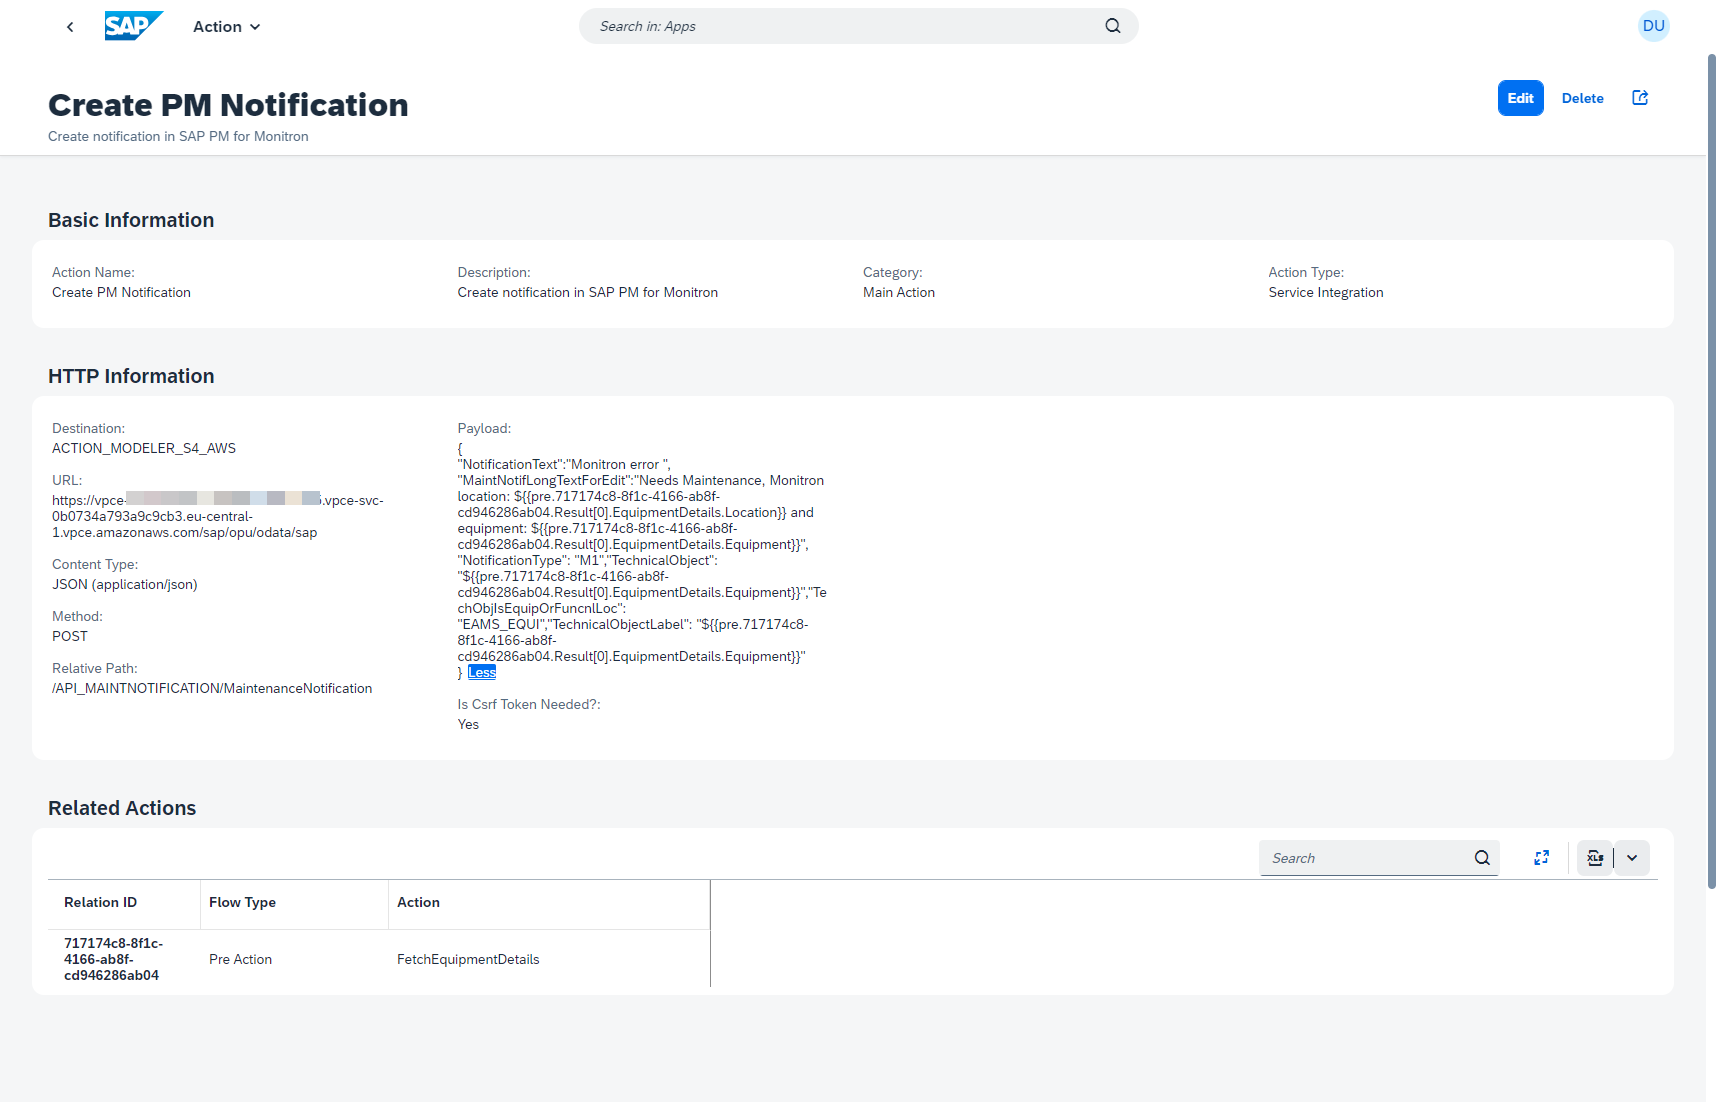
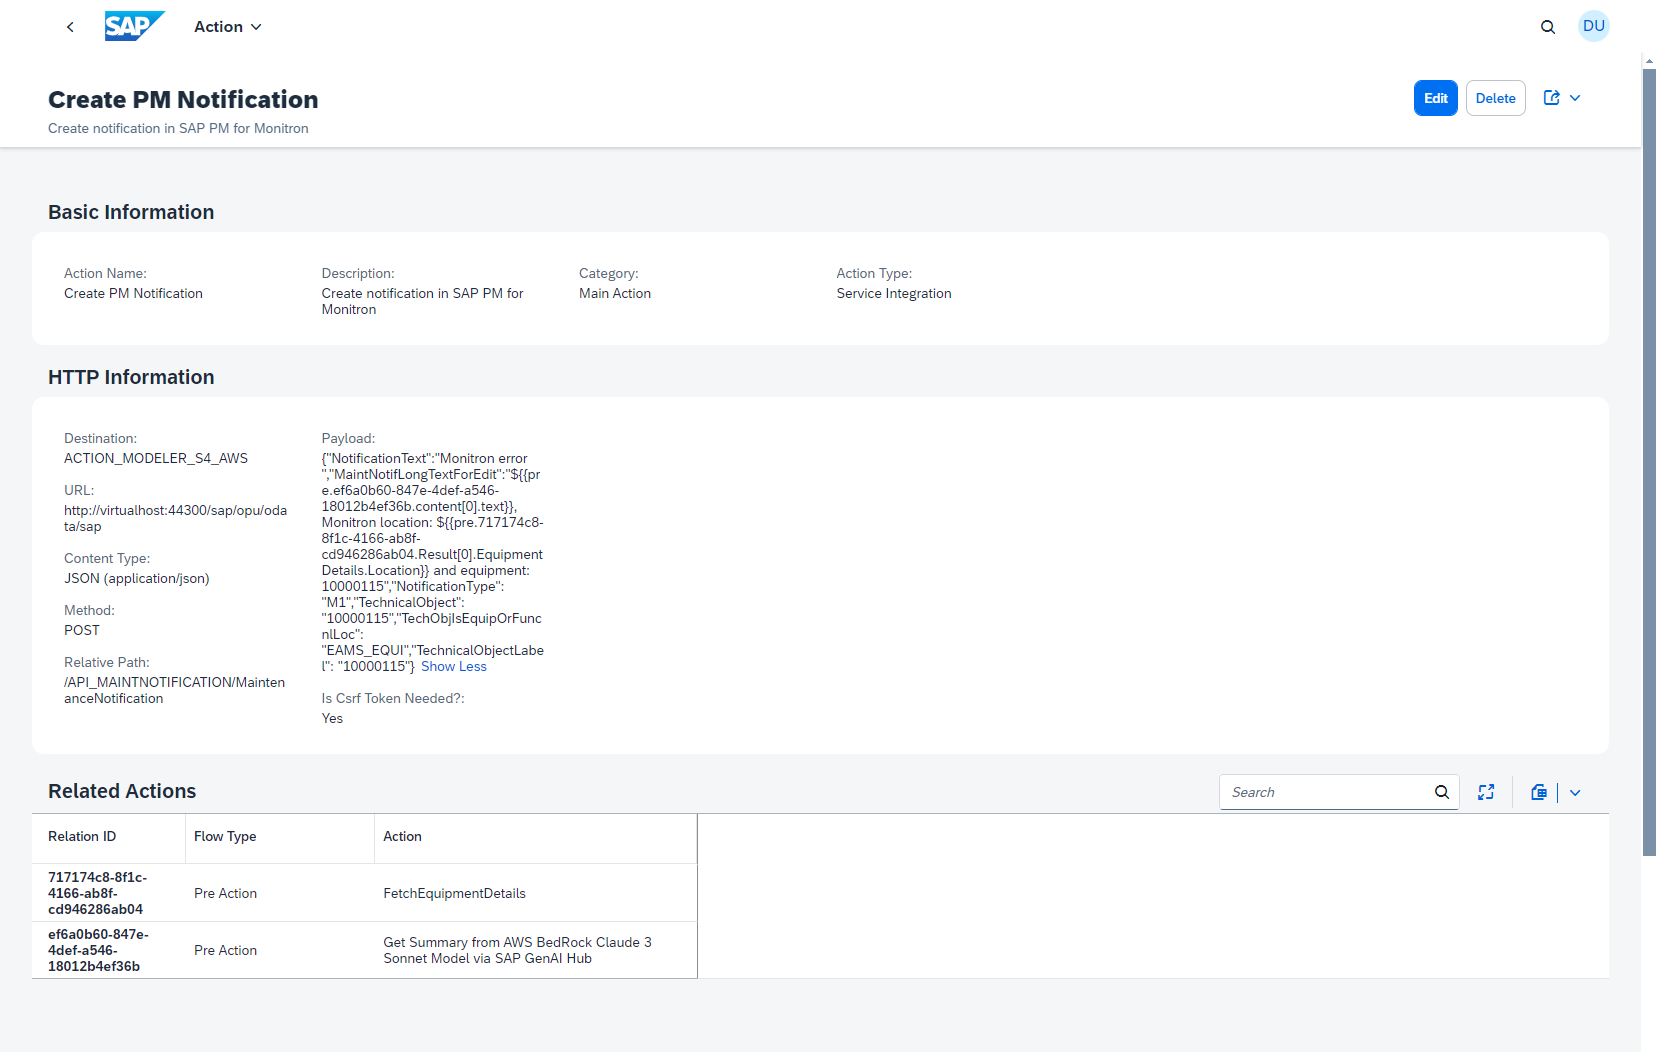
Steps for creating the GetSummary action

diff --git a/documentation/Step7-Configure-BusinessActions/README.md b/documentation/Step7-Configure-BusinessActions/README.md
@@ -123,28 +123,34 @@ In this section, you will define business action in the action-management extens
 
 7. Create a new destination with the name **AWS_BEDROCK_MODEL** and enter the following configuration values. This is used for calling the deployed generative model via SAP GenAI Hub.
 
-a. Navigate to your **SAP BTP Subaccount**, **Services -> Instances and Subscriptions** , search for the AI core instance that you have created, and under the **Service Keys**, Click on the menu as shown to see the details of the key.
+    **a.** Navigate to your **SAP BTP Subaccount**, **Services -> Instances and Subscriptions** , search for the AI core instance that you have created, and under the **Service Keys**, Click on the menu as shown to see the details of the key.
 
-    - Paste the values of `api`, `clientid`, `clientsecret` and `url` which you have copied from previous step and update it for `URL`, `Client ID`, `Client Secret` and `Token Service URL` respectively as instructed below.
+    ![plot](./images/ai11.png)
+
+    **b.** Copy the values of `clientid`, `clientsecret` and `url` from the service key and use it to update `Client ID`, `Client Secret` and `Token Service URL` respectively as instructed below. Also the deployment url copied from [Step-1 - #Set Up for AI Core](../Step1-Setup-SAPBTP-Subaccount/README.md#3-set-up-sap-ai-core)
+
+    ![plot](./images/ai10.png)
 
     ```
-    Name: ACTION_DECISIONS
+    Name: AWS_BEDROCK_MODEL
     Type: HTTP
-    URL: `api`/public/rule/runtime/rest
+    URL: `paste_your_deployment_url_here`
     Proxy: Internet
     Authentication: OAuth2ClientCredentials
-    Client ID: `clientid`
-    Client Secret: `clientsercret``
+    Client ID: `paste_your_clientid`
+    Client Secret: `paste_your_clientsercret``
     Token Service URL Type: Dedicated
-    Token Service URL: `url`/oauth/token
+    Token Service URL: `paste_your_url`/oauth/token
 
     Additional Properties:
     HTML5.DynamicDestination: true
+    URL.headers.AI-Resource-Group: default
+    URL.headers.Content-Type: application/json
     ```
 
     Your destination configuration should look like this:
 
-    ![plot](./images/BusinessRulesDestination.png)
+    ![plot](./images/AWS_BEDROCK_MODEL_DEST.png)
 
 ### 3. Configure Business Actions in  Manage Actions application
 
@@ -226,12 +232,44 @@ Your configuration should look like this:
 
 ![plot](./images/FetchEquipmentDetails.png)
 
+8. Create another business action with name **Get Summary from AWS BedRock Claude 3 Sonnet Model via SAP GenAI Hub**. In this pre-action we are sending a payload to the deployed Generative AI model, with propmt to summarize the received event. The Claude 3 sonnet model will then give us the summary of the event describing what caused the plant to undergo maintenance. This summary can then be used while creating the maintenance notification in the SAP S/4HANA System.
+
+Enter the following configuration values:
+
+```
+    Basic Information:
+
+    Action Name: Get Summary from AWS BedRock Claude 3 Sonnet Model via SAP GenAI Hub
+    Description: Call the AWS BedRock's Claude 3 Sonnet Model via SAP GenAI Hub for summarization task
+    Category: Pre/Post Action
+    Action Type: Service Integration
+    
+    HTTP Information:
+    Destination: AWS_BEDROCK_MODEL
+    Content-Type: application/json
+    Method: POST
+    Relative Path: /invoke
+    Payload: {"anthropic_version":"bedrock-2023-05-31","max_tokens":1000,"messages":[{"role":"user","content":"Given the following JSON data from Amazon Monitron, generate a summary in 100 words in plain text without any new line character. Describe the root cause of the issue. Mention any relevant values or levels that may have contributed to or impacted the issue.Do not use any special characters in the summary. Use the data provided:${{stringify(event.data)}}"}]}
+
+    Is Csrf Token Needed?: false
+
+```
+
+Your configuration should look like this:
+
+![plot](./images/getSummaryAction.png)
+
 8. Create another business action with name as **Create PM Notification**. Under Related Actions, click on **Create** button, choose the **Flow Type** as Pre Action,
-    and **Action** as FetchEquipmentDetails. Copy the corresponding **Relation ID** and replace it in the below payload.
+    and **Action** as **FetchEquipmentDetails**. Copy the corresponding **Relation_ID_1** and replace it in the below payload. 
 
     ![plot](./images/relation-id-action.png)
 
-    Fill the other details as follows.
+    Similarly, click on **Create** button, choose the **Flow Type** as Pre Action, and **Action** as **Get Summary from AWS BedRock Claude 3 Sonnet Model via SAP GenAI Hub**. Copy the corresponding **Relation_ID_2** and replace it at **MaintNotifLongTextForEdit** in the below payload
+
+    ![plot](./images/relId2-action.png)
+
+
+    Fill the other details as follows. Replace with the value of **Relation_ID_1** and **Relation_ID_2** at the correct places as mentioned in the payload below.
 
 ```
     Basic Information:
@@ -249,10 +287,10 @@ Your configuration should look like this:
     Payload: {
         
     "NotificationText":"Monitron error ",
-    "MaintNotifLongTextForEdit":"Needs Maintenance, Monitron location: ${{pre.<Relation ID>.Result[0].EquipmentDetails.Location}} and equipment: ${{pre.<Relation ID>.Result[0].EquipmentDetails.Equipment}}",
-    "NotificationType": "M1","TechnicalObject": "${{pre.<Relation ID>.Result[0].EquipmentDetails.Equipment}}",
+    "MaintNotifLongTextForEdit":"${{pre.<paste_Relation_ID_2_here>.content[0].text}}, Monitron location: ${{pre.<paste_Relation_ID_1_here>.Result[0].EquipmentDetails.Location}} and equipment: ${{pre.<paste_Relation_ID_1_here>.Result[0].EquipmentDetails.Equipment}}",
+    "NotificationType": "M1","TechnicalObject": "${{pre.<paste_Relation_ID_1_here>.Result[0].EquipmentDetails.Equipment}}",
     "TechObjIsEquipOrFuncnlLoc": "EAMS_EQUI",
-    "TechnicalObjectLabel": "${{pre.<Relation ID>.Result[0].EquipmentDetails.Equipment}}"
+    "TechnicalObjectLabel": "${{pre.<paste_Relation_ID_1_here>.Result[0].EquipmentDetails.Equipment}}"
 
     }
     Is Csrf Token Needed?: true
